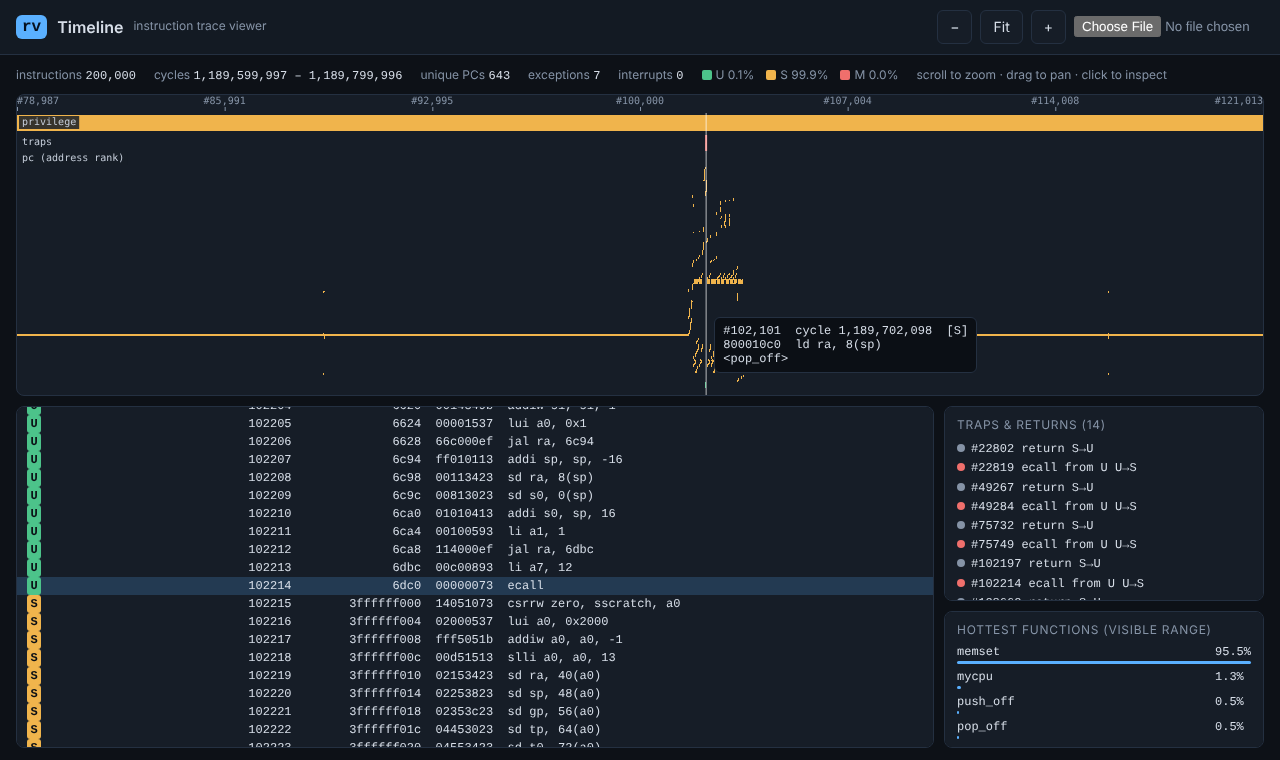
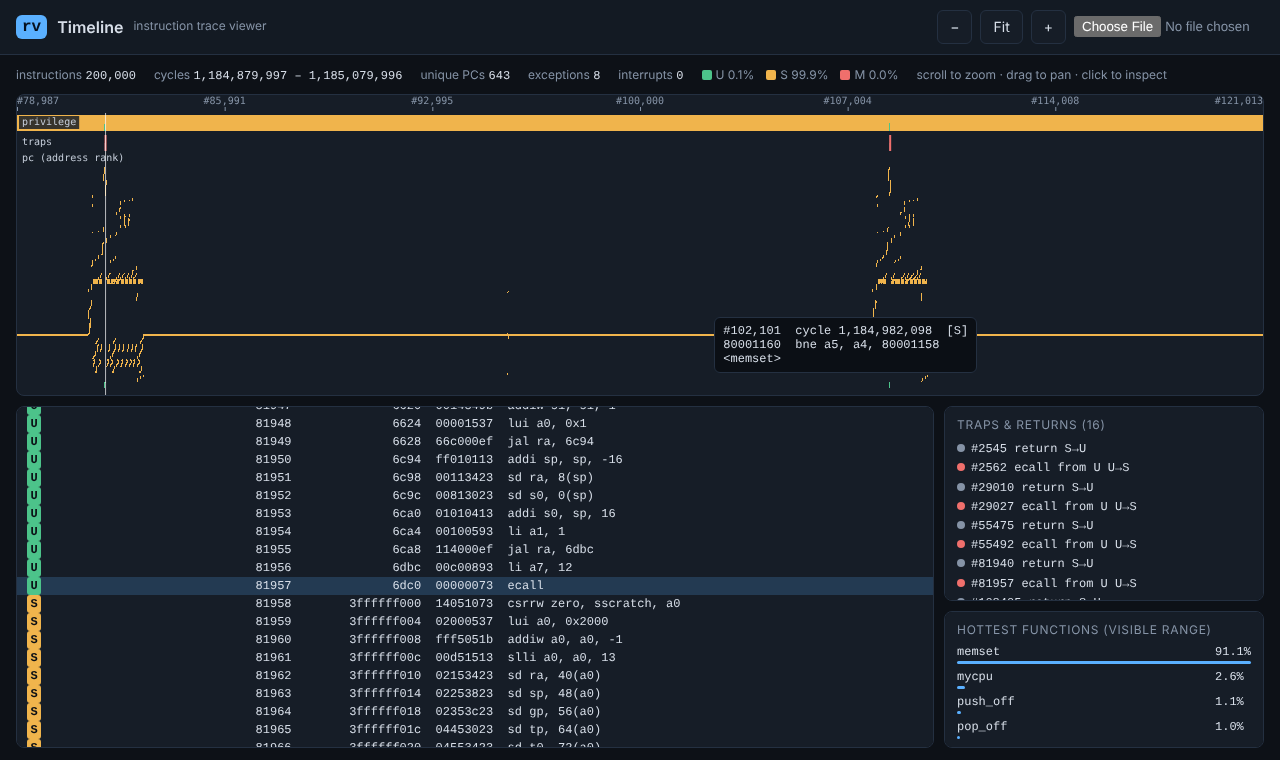
Timeline: stack each privilege-band column by the mix of modes in it
Previously the most privileged mode won the whole column, so short
user-mode bursts between kernel code disappeared.

diff --git a/web/trace.js b/web/trace.js
@@ -132,24 +132,35 @@ function draw() {
   const span = view[1] - view[0];
   const rgb = { 0: [76, 195, 138], 1: [240, 180, 76], 3: [239, 111, 108] };
   const step = Math.max(1, Math.floor(span / (W * 64))); // subsample huge ranges
-  const colMode = new Int8Array(W).fill(-1);
+  const colCount = new Uint32Array(W * 4); // instructions per mode per column
   for (let i = view[0]; i < view[1]; i += step) {
     const x = Math.floor(((i - view[0]) / span) * W);
     if (x < 0 || x >= W) continue;
     const p = T.prv[i];
-    if (colMode[x] < p) colMode[x] = p; // most privileged mode wins the column
+    colCount[x * 4 + p]++;
     const y = Math.round(pcBot - T.rank[T.pcIdx[i]] * (pcBot - pcTop));
     const o = (y * W + x) * 4;
     const c = rgb[p];
     px[o] = c[0]; px[o + 1] = c[1]; px[o + 2] = c[2]; px[o + 3] = 255;
   }
+  // Privilege band: each column is stacked by the share of U, S and M
+  // instructions in it (U at the bottom). Any mode present gets at least one
+  // device pixel, so brief visits to a mode stay visible when zoomed out.
+  const bandH = modeBot - modeTop;
   for (let x = 0; x < W; x++) {
-    const p = colMode[x];
-    if (p < 0) continue;
-    const c = rgb[p];
-    for (let y = modeTop; y < modeBot; y++) {
-      const o = (y * W + x) * 4;
-      px[o] = c[0]; px[o + 1] = c[1]; px[o + 2] = c[2]; px[o + 3] = 255;
+    const n = colCount[x * 4] + colCount[x * 4 + 1] + colCount[x * 4 + 3];
+    if (!n) continue;
+    let y = modeBot;
+    for (const p of [0, 1, 3]) {
+      const k = colCount[x * 4 + p];
+      if (!k) continue;
+      const h = Math.max(1, Math.round((k / n) * bandH));
+      const c = rgb[p];
+      for (let yy = Math.max(modeTop, y - h); yy < y; yy++) {
+        const o = (yy * W + x) * 4;
+        px[o] = c[0]; px[o + 1] = c[1]; px[o + 2] = c[2]; px[o + 3] = 255;
+      }
+      y -= h;
     }
   }
   ctx.putImageData(img, 0, 0);
